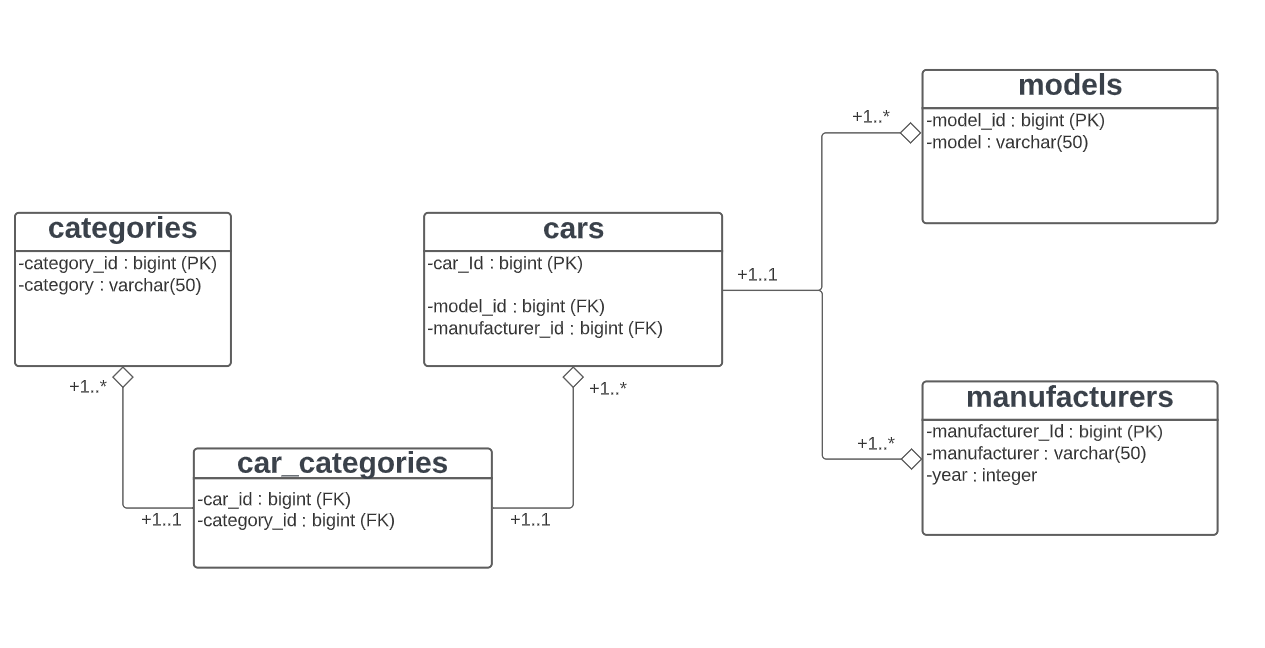
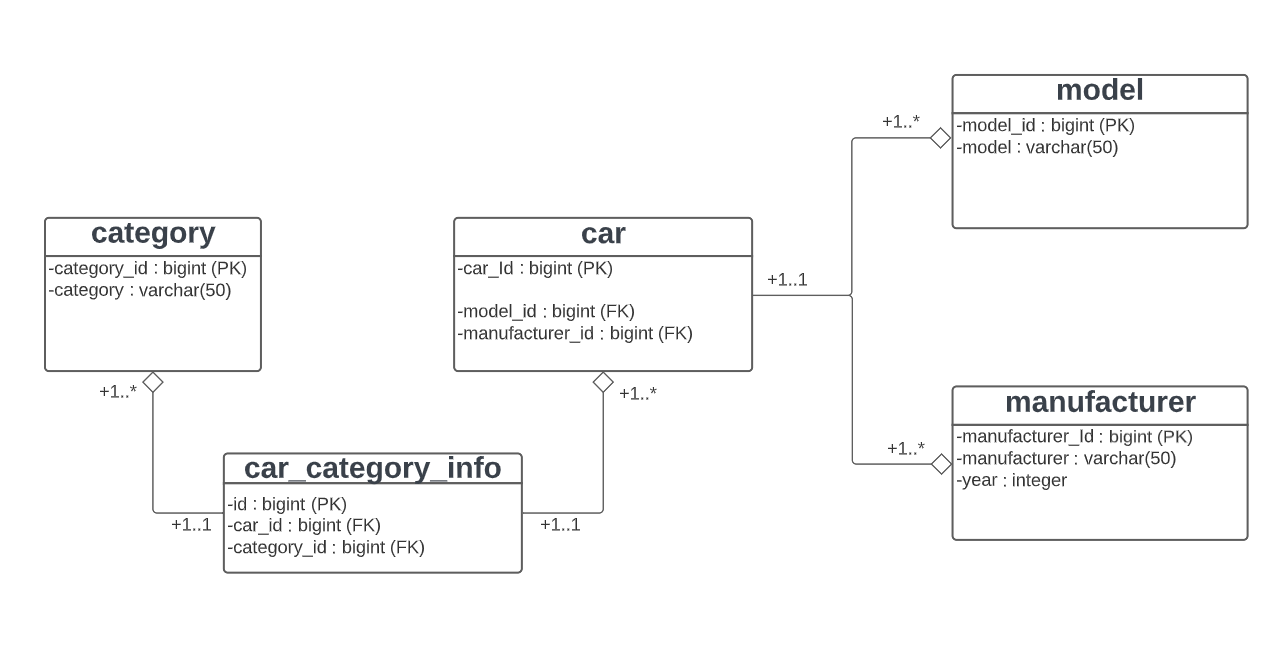
Changed tables names

diff --git a/src/main/java/com/foxminded/car_rest_service/entities/CarCategoryInfo.java b/src/main/java/com/foxminded/car_rest_service/entities/CarCategoryInfo.java
@@ -1,14 +1,5 @@
 package com.foxminded.car_rest_service.entities;
 
-import javax.persistence.CascadeType;
-import javax.persistence.Column;
-import javax.persistence.Entity;
-import javax.persistence.GeneratedValue;
-import javax.persistence.GenerationType;
-import javax.persistence.Id;
-import javax.persistence.OneToMany;
-import javax.persistence.Table;
-
 import lombok.AllArgsConstructor;
 import lombok.Getter;
 import lombok.NoArgsConstructor;
@@ -16,9 +7,16 @@ import lombok.Setter;
 import lombok.ToString;
 import org.hibernate.Hibernate;
 
-import java.util.HashSet;
+import javax.persistence.Column;
+import javax.persistence.Entity;
+import javax.persistence.FetchType;
+import javax.persistence.GeneratedValue;
+import javax.persistence.GenerationType;
+import javax.persistence.Id;
+import javax.persistence.JoinColumn;
+import javax.persistence.ManyToOne;
+import javax.persistence.Table;
 import java.util.Objects;
-import java.util.Set;
 
 @Entity
 @Getter
@@ -26,29 +24,29 @@ import java.util.Set;
 @ToString
 @NoArgsConstructor
 @AllArgsConstructor
-@Table(name = "manufacturer")
-public class Manufacturer {
+@Table(name = "car_category_info")
+public class CarCategoryInfo {
 
     @Id
     @GeneratedValue(strategy = GenerationType.IDENTITY)
-    @Column(name = "manufacturer_id")
+    @Column(name = "id")
     private Long id;
 
-    @Column(name = "manufacturer")
-    private String manufacturer;
-
-    @Column(name = "year")
-    private Integer year;
-
-    @OneToMany(cascade = CascadeType.ALL, mappedBy = "manufacturer")
+    @ManyToOne(fetch = FetchType.LAZY)
+    @JoinColumn(name = "car_id")
     @ToString.Exclude
-    private Set<Car> cars = new HashSet<>();
+    private Car car;
+
+    @ManyToOne(fetch = FetchType.LAZY)
+    @JoinColumn(name = "category_id")
+    @ToString.Exclude
+    private Category category;
 
     @Override
     public boolean equals(Object o) {
         if (this == o) return true;
         if (o == null || Hibernate.getClass(this) != Hibernate.getClass(o)) return false;
-        Manufacturer that = (Manufacturer) o;
+        CarCategoryInfo that = (CarCategoryInfo) o;
         return id != null && Objects.equals(id, that.id);
     }
 

diff --git a/src/main/java/com/foxminded/car_rest_service/entities/Category.java b/src/main/java/com/foxminded/car_rest_service/entities/Category.java
@@ -26,7 +26,7 @@ import java.util.Set;
 @ToString
 @NoArgsConstructor
 @AllArgsConstructor
-@Table(name = "categories")
+@Table(name = "category")
 public class Category {
 
     @Id
@@ -38,7 +38,7 @@ public class Category {
 
     @OneToMany(cascade = CascadeType.ALL, mappedBy = "category", orphanRemoval = true)
     @ToString.Exclude
-    private Set<CarCategory> carCategories = new HashSet<>();
+    private Set<CarCategoryInfo> carCategories = new HashSet<>();
 
     @Override
     public boolean equals(Object o) {

diff --git a/src/main/java/com/foxminded/car_rest_service/entities/Car.java b/src/main/java/com/foxminded/car_rest_service/entities/Car.java
@@ -29,7 +29,7 @@ import java.util.Set;
 @ToString
 @NoArgsConstructor
 @AllArgsConstructor
-@Table(name = "cars")
+@Table(name = "car")
 public class Car {
 
     @Id
@@ -49,7 +49,7 @@ public class Car {
 
     @OneToMany(cascade = CascadeType.ALL, mappedBy = "car", orphanRemoval = true)
     @ToString.Exclude
-    private Set<CarCategory> carCategories = new HashSet<>();
+    private Set<CarCategoryInfo> carCategories = new HashSet<>();
 
     @Override
     public boolean equals(Object o) {

diff --git a/src/main/java/com/foxminded/car_rest_service/entities/Model.java b/src/main/java/com/foxminded/car_rest_service/entities/Model.java
@@ -26,7 +26,7 @@ import java.util.Set;
 @ToString
 @NoArgsConstructor
 @AllArgsConstructor
-@Table(name = "models")
+@Table(name = "model")
 public class Model {
 
     @Id
